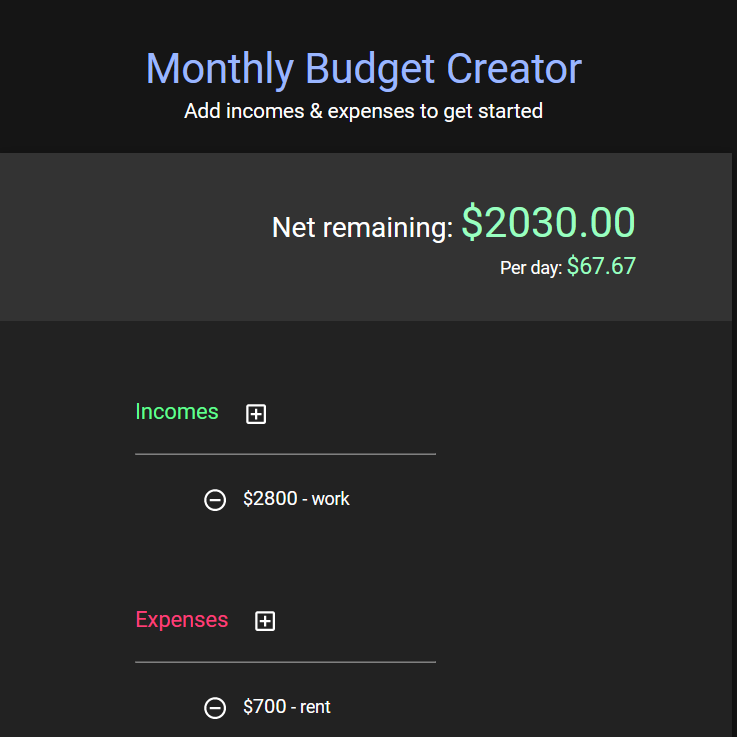
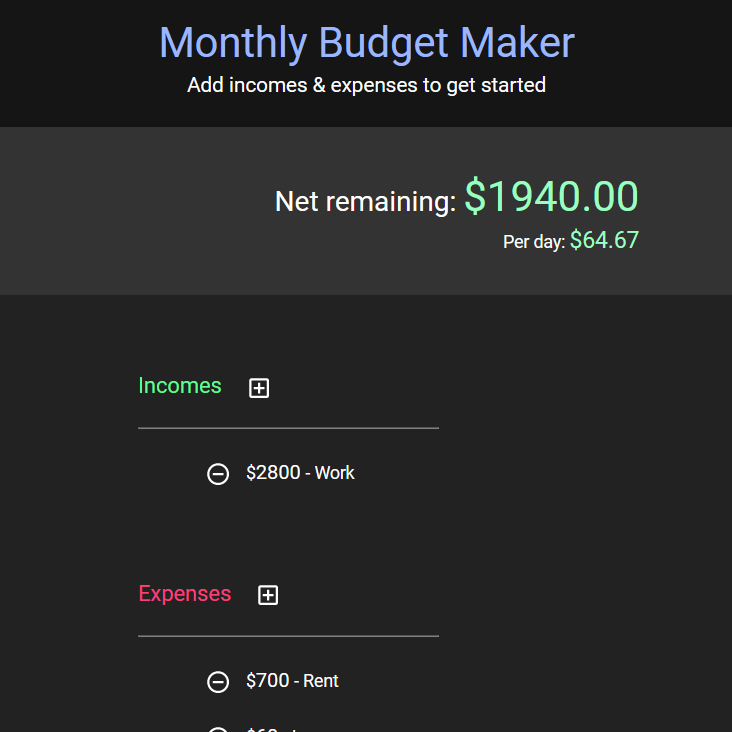
Updated resume, project image and title

diff --git a/src/Projects.js b/src/Projects.js
@@ -10,7 +10,7 @@ function Projects(props) {
                     <a rel="noreferrer" className="project-link" href="https://monthlybudget.netlify.app/" target="_blank">
                         <div className="project">
                             <div className="project-description">
-                                Monthly Budget Creator
+                                Monthly Budget Maker
                                 <div className="project-subtitle">Budget planner / creation tool</div>
                             </div>
                             <img className="project-image" src={budget} alt="Budget app preview"></img>
